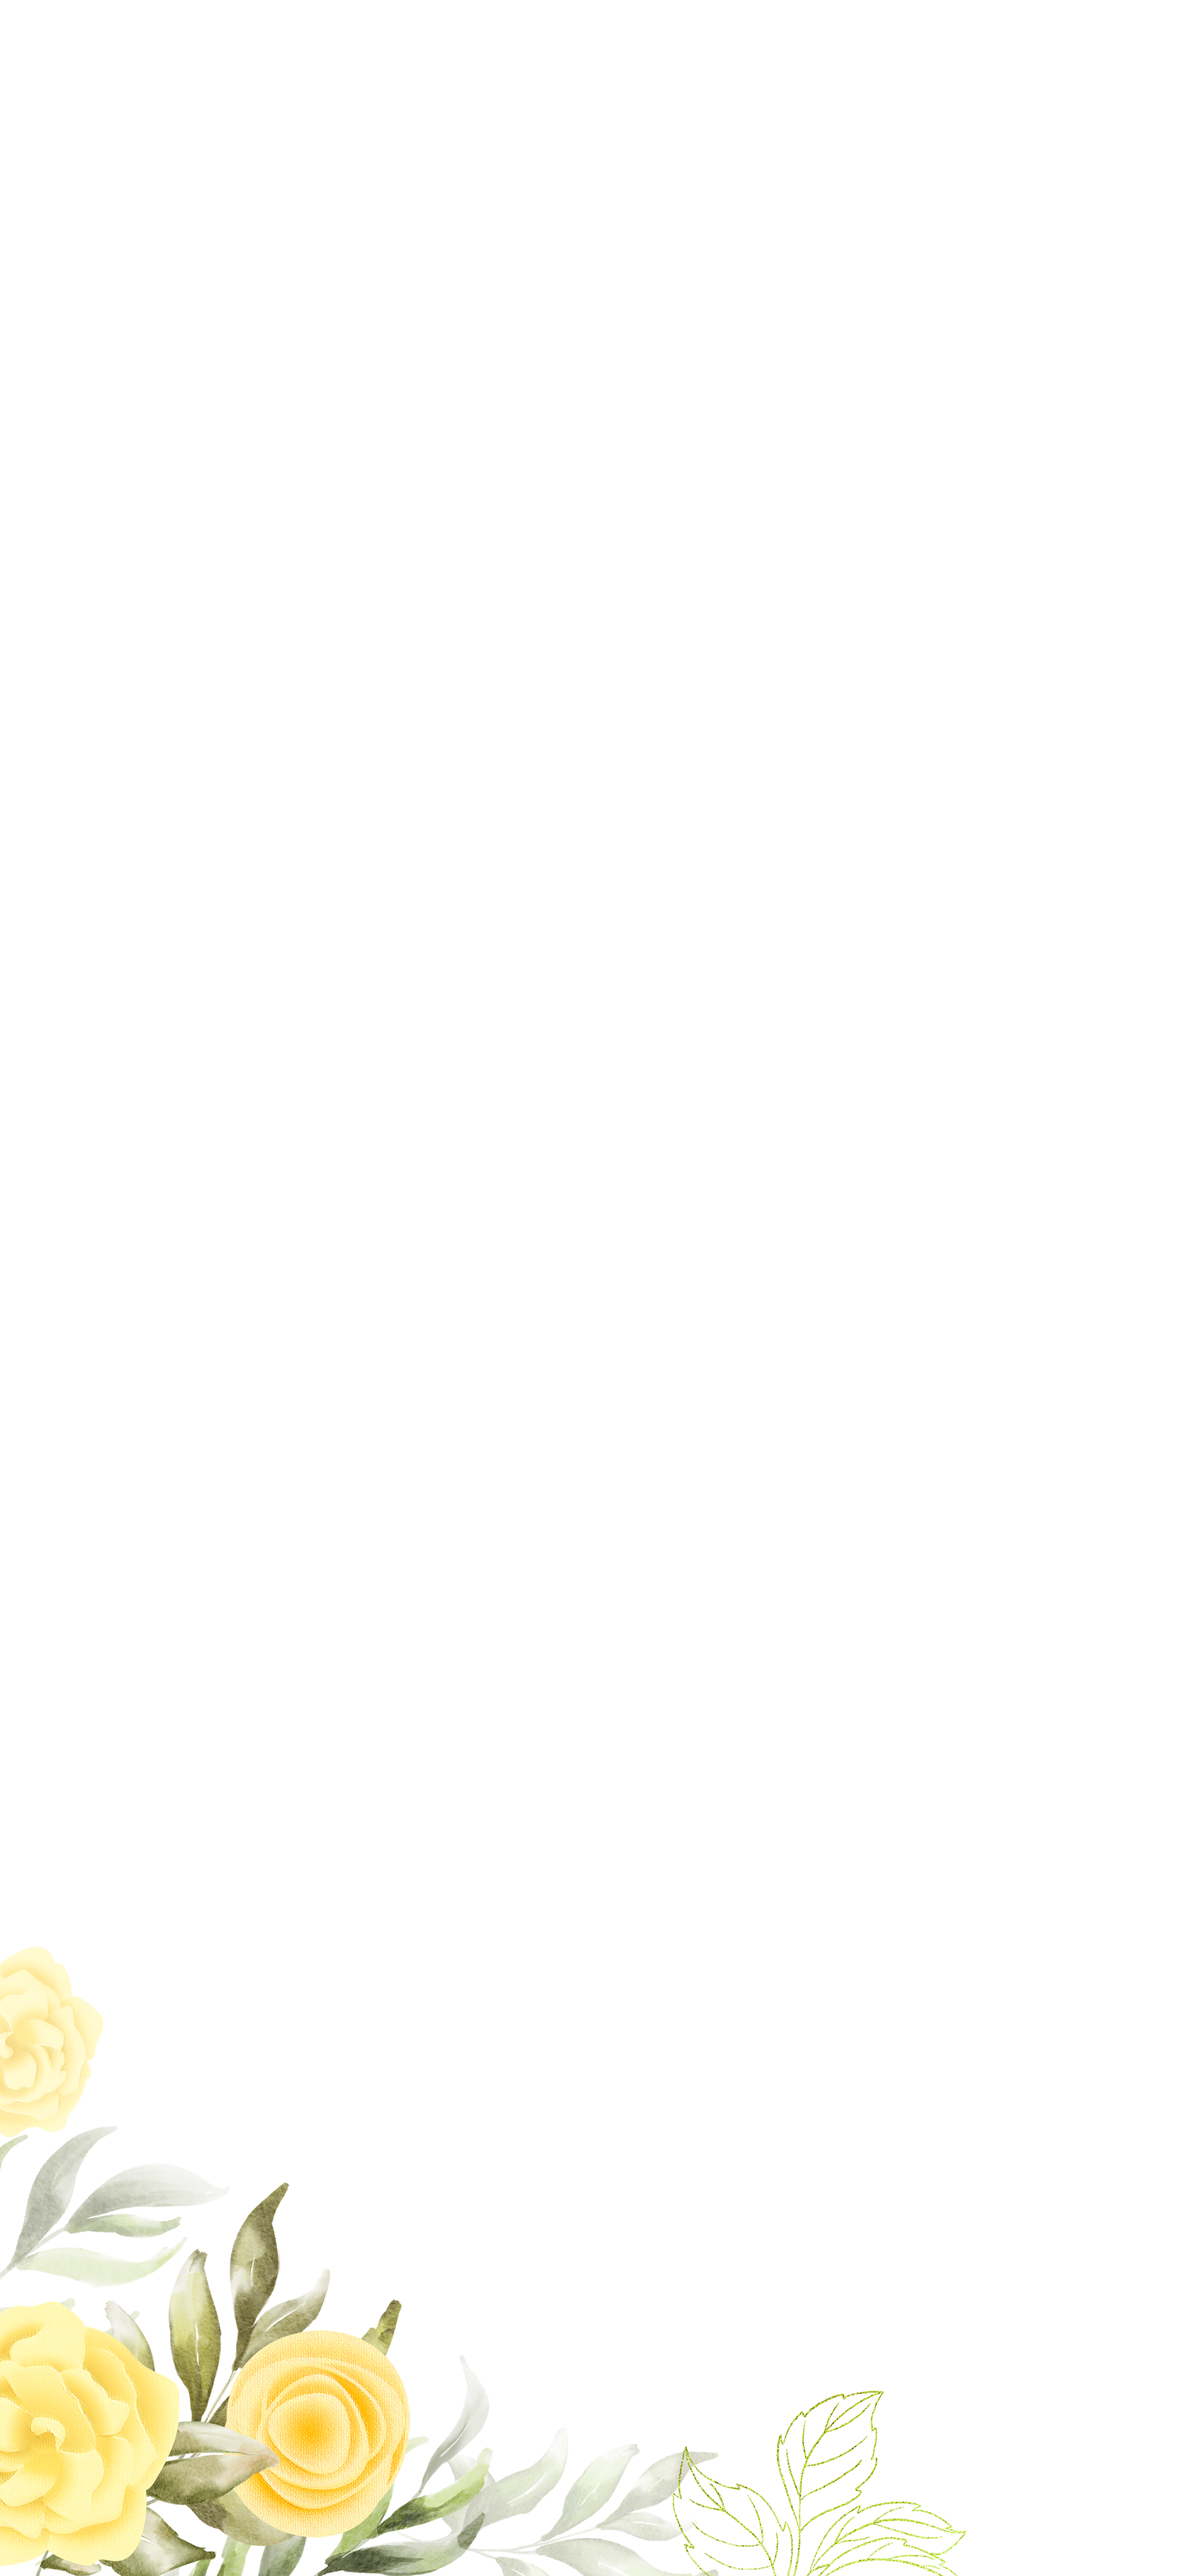
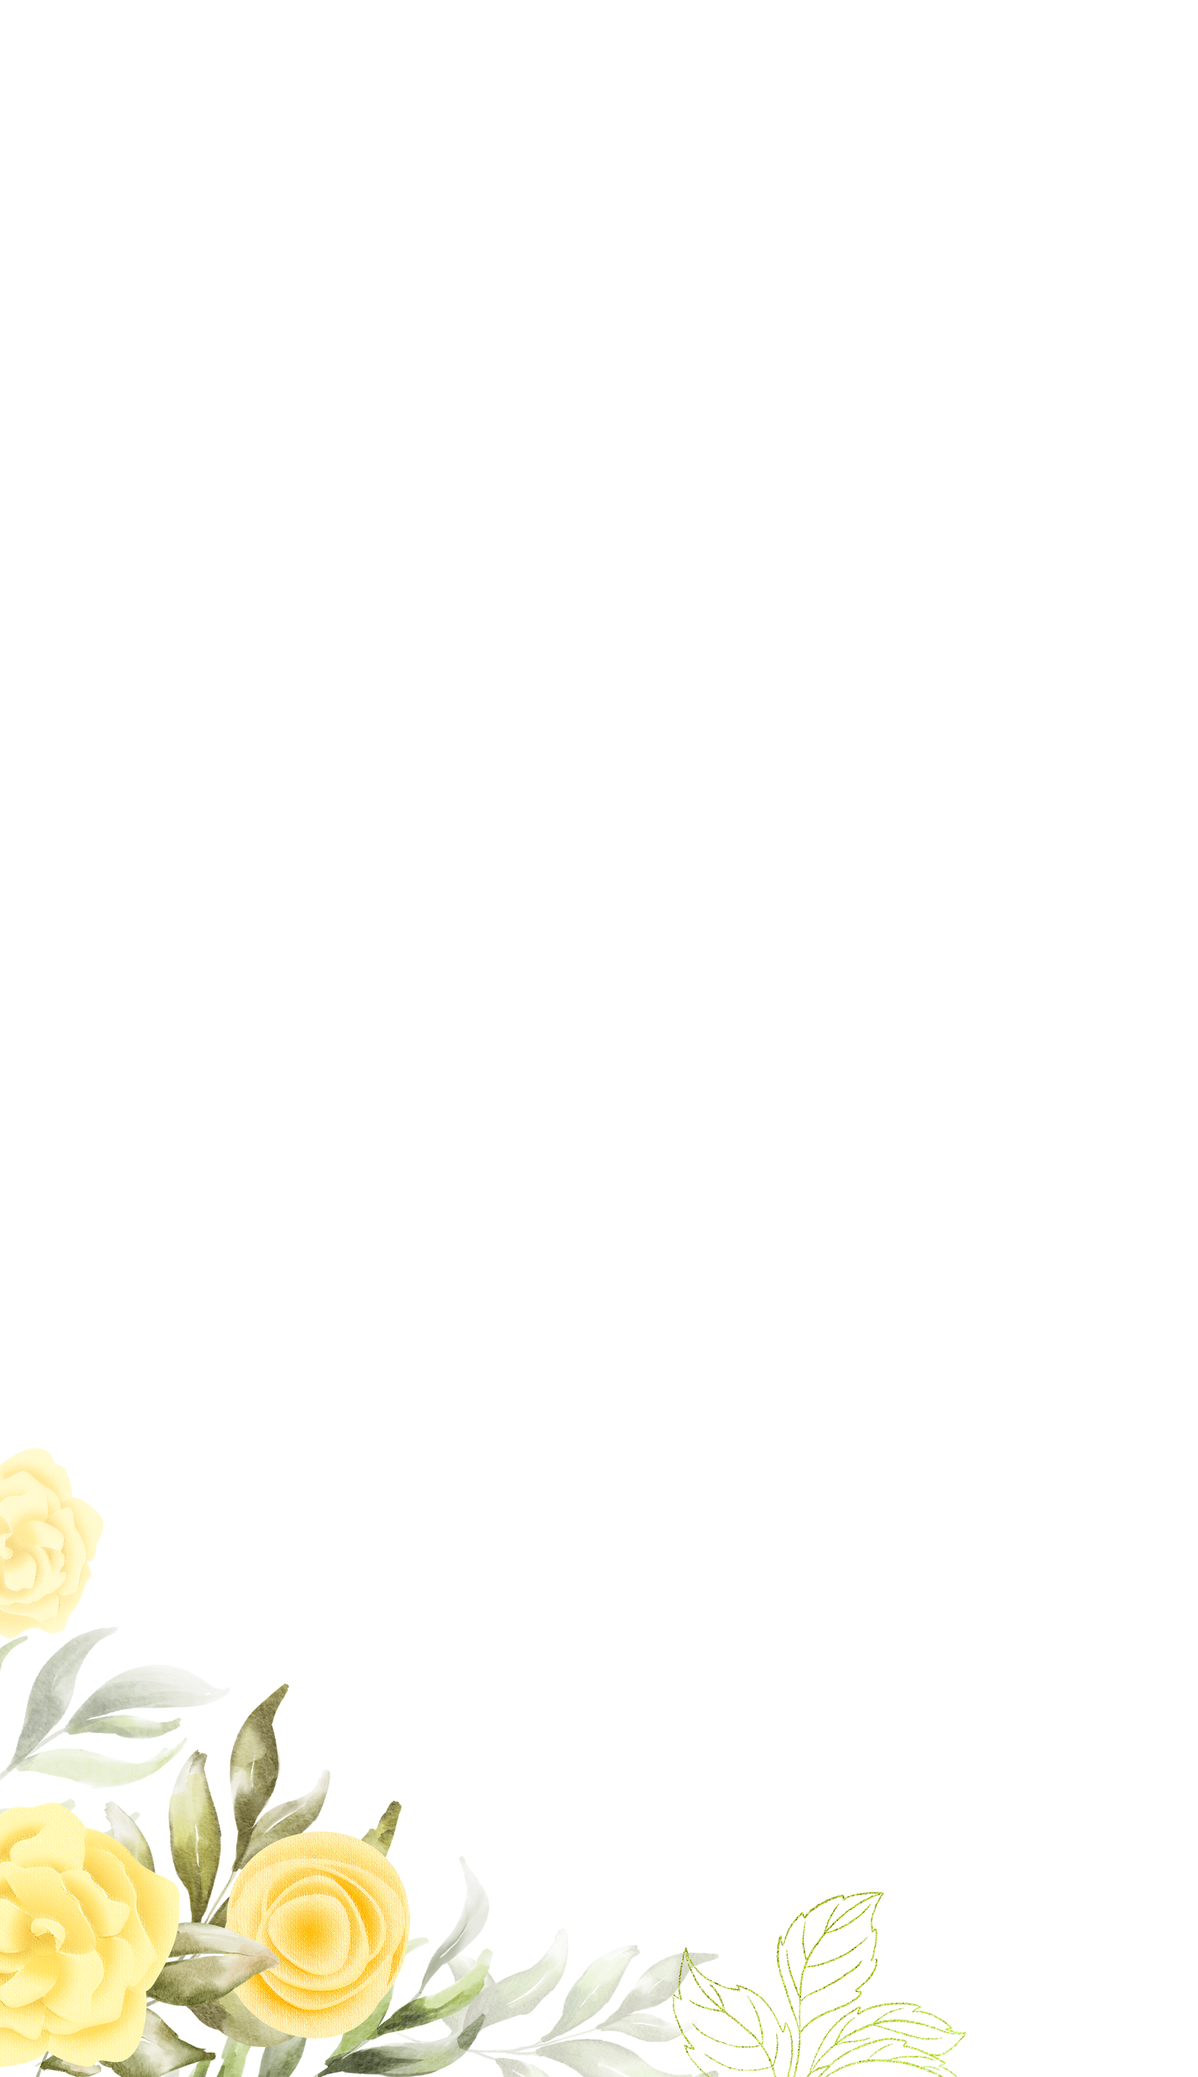
1

Changed region(s): [[0.0, 0.6873, 0.8107, 0.9998]]

diff --git a/style.css b/style.css
@@ -90,6 +90,7 @@ body {
 .navbar a:hover,
 .navbar a.active {
     /* color: var(--main-color); */
+    /* font-size: 6rem; */
 }
 
 #menu-icon {
@@ -101,7 +102,7 @@ body {
 }
 
 section {
-    min-height: 100vh;
+    min-height:135vh;
     padding: 10rem 9% 2rem;
 }
 
@@ -115,7 +116,7 @@ section {
     top: 73px;
     right: 0px;
     width: 375px;
-    height: 806px;
+    height: 647px;
     padding: 10px;
     opacity: 0;
     animation: fadeInFromNone 2s forwards;
@@ -127,7 +128,7 @@ section {
     top: 73px;
     left: 0px;
     width: 375px;
-    height: 806px;
+    height: 647px;
     padding: 10px;
     opacity: 0;
     animation: fadeInFromNone 2s forwards;
@@ -140,7 +141,7 @@ section {
     left: 50%;
     transform: translate(-50%, 0);
     width: 375px;
-    height: 765px;
+    height: 617px;
     padding: 10px;
     opacity: 0;
     animation: fadeInFromNone 2s forwards;
@@ -931,12 +932,13 @@ section:nth-child(odd) .animate.scroll,
     }
 }
 
-@media (max-width: 768px) and (max-height: 850px) {
+@media (max-width: 768px) and (max-height: 667px) {
     section {
-        min-height: 135vh;
+        min-height: 115vh;
     }
 }
-@media (max-width: 768px) and (min-height: 900px) {
+
+@media (max-width: 768px) and (max-height: 900px) and (min-height: 670px)  {
     section {
         min-height: 100vh;
     }
@@ -990,7 +992,7 @@ section:nth-child(odd) .animate.scroll,
 
     .navbar a {
         display: block;
-        font-size: 2rem;
+        font-size: 3rem;
         margin: 3rem 0;
         transform: translateX(-20rem);
         transition: .25s ease;
@@ -1450,7 +1452,7 @@ section:nth-child(odd) .animate.scroll,
     -webkit-background-clip: text;
     -webkit-text-fill-color: transparent;
     animation: animate-background 10s infinite alternate linear;
-    z-index: 1; 
+    z-index: 10; 
 }
 
 @keyframes animate-background {

diff --git a/index.html b/index.html
@@ -53,9 +53,9 @@
         <div class="home-content">
 
 
-            <div class="img1" style="background-image: url('images/img6.png');background-size: 375px 806px;"></div>
-            <div class="img2" style="background-image: url('images/img5.png');background-size: 375px 765px;"></div>
-            <div class="img3" style="background-image: url('images/img4.png');background-size: 375px 806px;"></div>
+            <div class="img1" style="background-image: url('images/img6.png');background-size: 375px 647px;"></div>
+            <div class="img2" style="background-image: url('images/img5.png');background-size: 375px 617px;"></div>
+            <div class="img3" style="background-image: url('images/img4.png');background-size: 375px 647px;"></div>
             <!-- <div class="home-imgHover" style="background-image: url('images/about.jpg');"></div>
             <span class="animate home-img" style="--i:7;"></span> -->
         </div>
